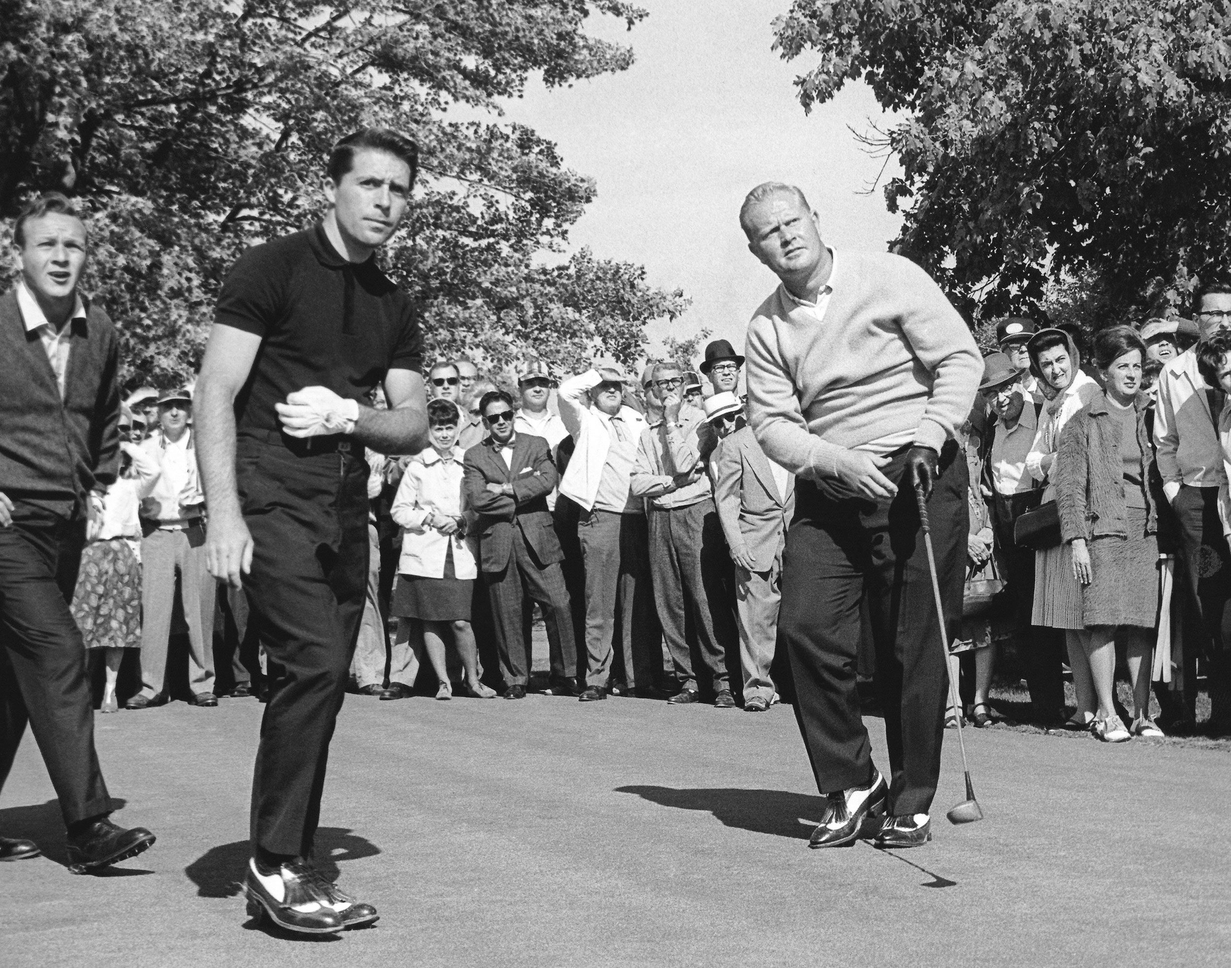
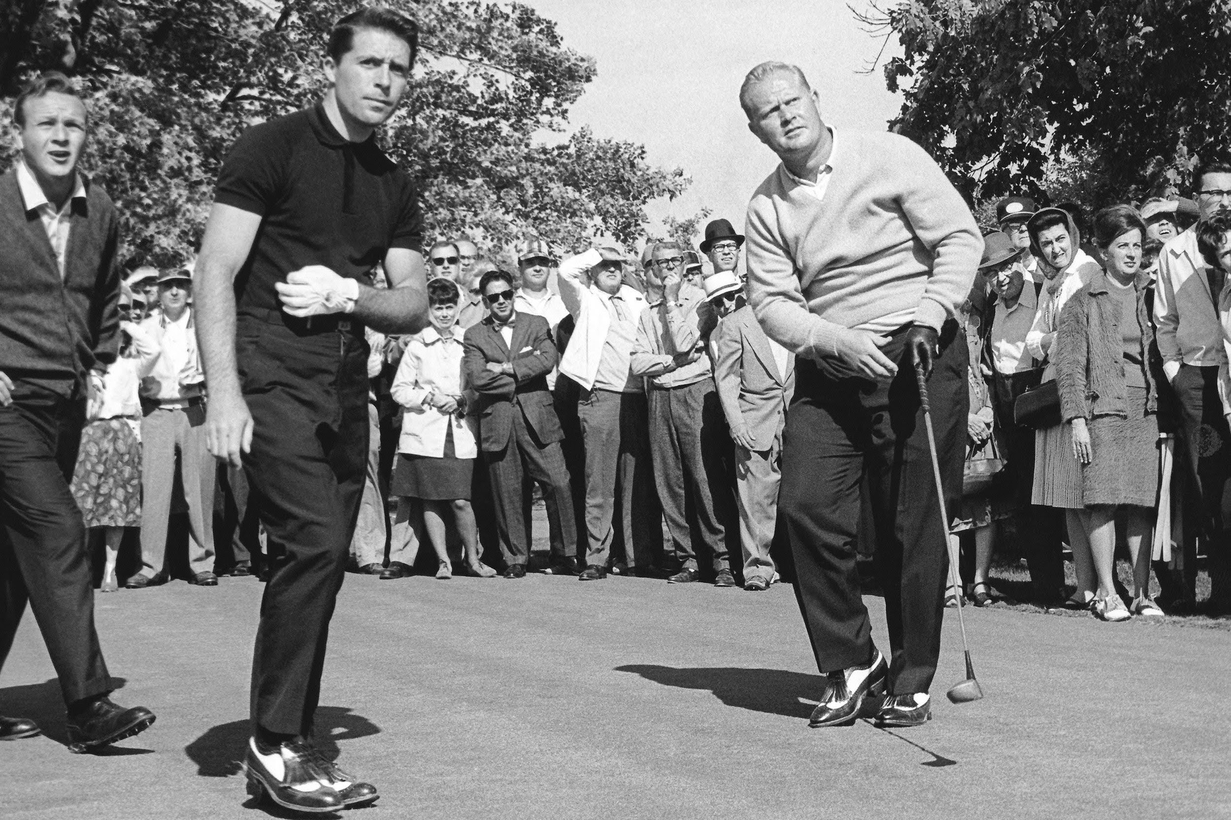
imagenes carousel nuevo tamaño

diff --git a/css/style.css b/css/style.css
@@ -345,7 +345,7 @@ body::before {
     
     @media (min-width: 992px) {
         .carousel-item img {
-            height: 500px;
+            height: 480px;
         }
     }
     
